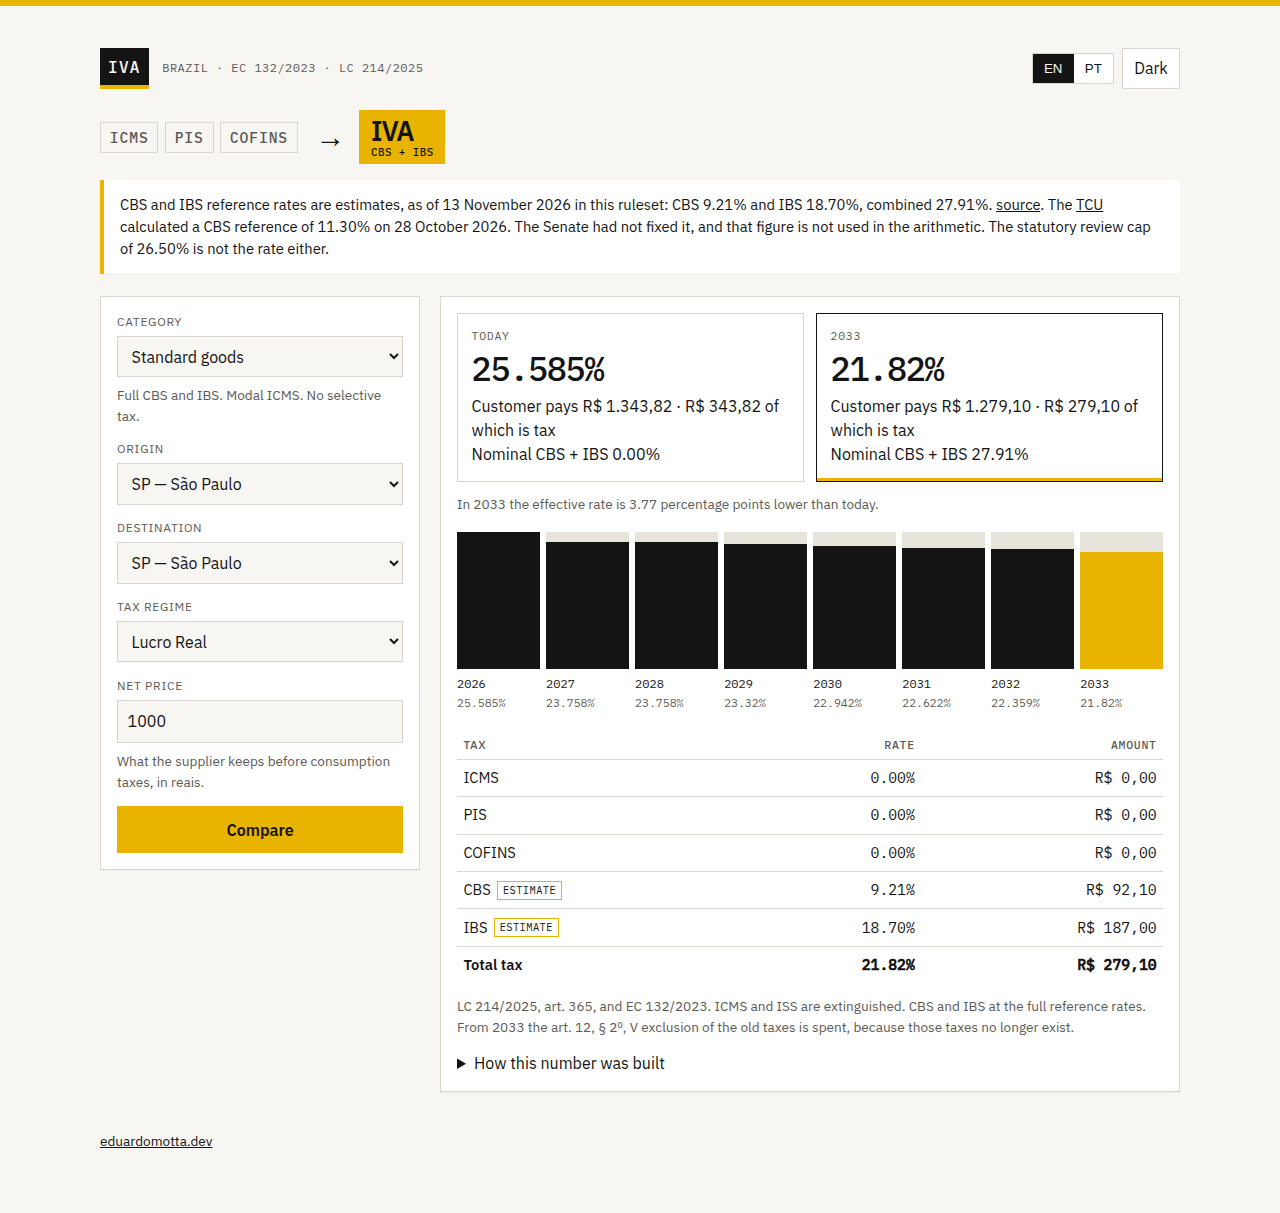
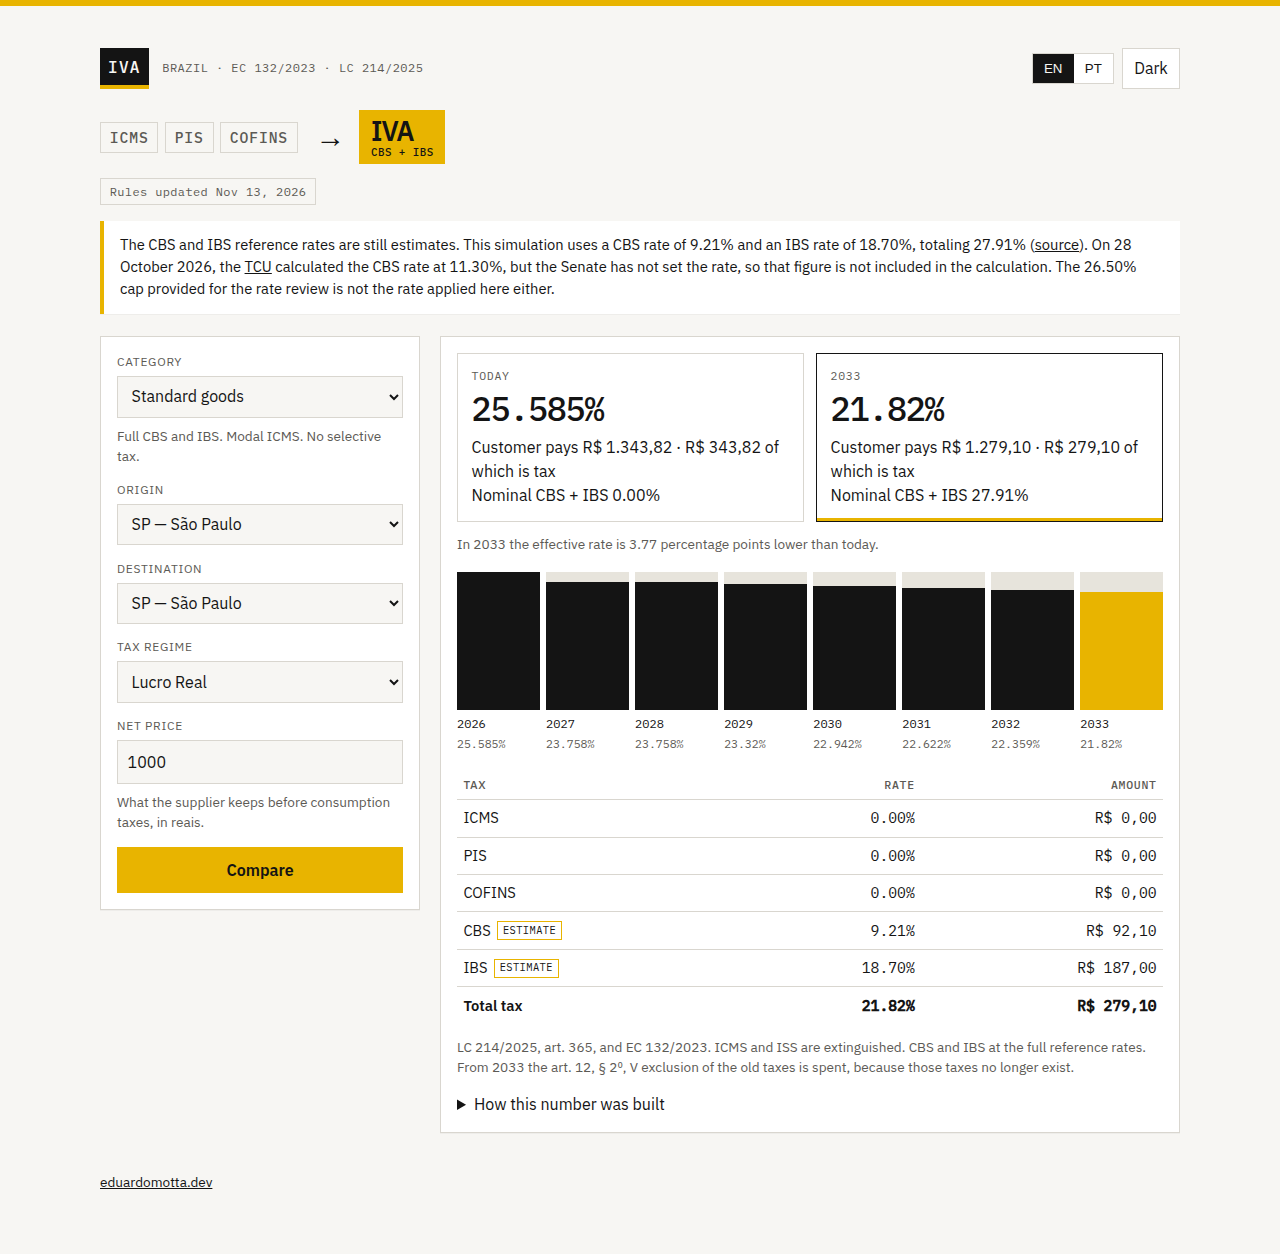
Show when the rules were updated and tighten the rates note.
The date comes from the active ruleset, the same value the health check reports, and the estimate note no longer repeats it.

diff --git a/frontend/app.js b/frontend/app.js
@@ -190,11 +190,18 @@ function points(delta) {
   }).format(Math.abs(delta) * 100);
 }
 
-function formatDate(iso) {
+function rulesAsOf(iso) {
   const [year, month, day] = iso.split("-").map(Number);
-  return new Intl.DateTimeFormat(locale(), { day: "numeric", month: "long", year: "numeric" }).format(
-    new Date(year, month - 1, day),
-  );
+  if (state.lang === "pt") {
+    const dd = String(day).padStart(2, "0");
+    const mm = String(month).padStart(2, "0");
+    return `${dd}/${mm}/${year}`;
+  }
+  return new Intl.DateTimeFormat("en-US", {
+    month: "short",
+    day: "numeric",
+    year: "numeric",
+  }).format(new Date(year, month - 1, day));
 }
 
 function applyChrome() {
@@ -231,8 +238,18 @@ function applyChrome() {
     }),
   );
   if (state.catalogue) fillSelects();
+  if (state.catalogue) renderUpdated();
   if (state.catalogue) renderNotice();
   if (state.result) renderResult();
+}
+
+function renderUpdated() {
+  const node = $("asof");
+  const iso = state.catalogue.as_of;
+  node.hidden = false;
+  node.textContent = state.lang === "pt"
+    ? `Regras atualizadas em ${rulesAsOf(iso)}`
+    : `Rules updated ${rulesAsOf(iso)}`;
 }
 
 function fillSelects() {
@@ -272,7 +289,6 @@ function keepSelect(select, options) {
 
 function renderNotice() {
   const estimates = state.catalogue.estimates;
-  const asOf = formatDate(estimates.as_of);
   const cbs = pct(estimates.cbs_reference);
   const ibs = pct(estimates.ibs_reference);
   const combined = pct(estimates.combined_reference);
@@ -288,22 +304,24 @@ function renderNotice() {
   notice.replaceChildren();
   if (state.lang === "pt") {
     notice.append(
-      `As alíquotas de referência da CBS e do IBS são estimativas. Nesta versão, de ${asOf}: CBS ${cbs} e IBS ${ibs}, somadas ${combined}. `,
+      `As alíquotas de referência da CBS e do IBS ainda são estimativas. Esta simulação usa CBS de ${cbs} e IBS de ${ibs}, totalizando ${combined} (`,
     );
     notice.append(link);
-    notice.append(". O ");
+    notice.append("). Em 28 de outubro de 2026, o ");
     notice.append(tcuLink);
     notice.append(
-      ` calculou ${tcu} de CBS em 28 de outubro de 2026. O Senado ainda não a havia fixado, e esse percentual não entra no cálculo. O teto de revisão de ${cap} também não é a alíquota adotada.`,
+      ` calculou a CBS em ${tcu}, mas, como o Senado ainda não fixou a alíquota, esse percentual não foi incorporado ao cálculo. O teto de ${cap} previsto para a revisão das alíquotas também não corresponde à alíquota aplicada.`,
     );
   } else {
     notice.append(
-      `CBS and IBS reference rates are estimates, as of ${asOf} in this ruleset: CBS ${cbs} and IBS ${ibs}, combined ${combined}. `,
+      `The CBS and IBS reference rates are still estimates. This simulation uses a CBS rate of ${cbs} and an IBS rate of ${ibs}, totaling ${combined} (`,
     );
     notice.append(link);
-    notice.append(". The ");
+    notice.append("). On 28 October 2026, the ");
     notice.append(tcuLink);
-    notice.append(` calculated a CBS reference of ${tcu} on 28 October 2026. The Senate had not fixed it, and that figure is not used in the arithmetic. The statutory review cap of ${cap} is not the rate either.`);
+    notice.append(
+      ` calculated the CBS rate at ${tcu}, but the Senate has not set the rate, so that figure is not included in the calculation. The ${cap} cap provided for the rate review is not the rate applied here either.`,
+    );
   }
 }
 
@@ -462,6 +480,7 @@ async function loadCatalogue() {
     $("regime").value = "lucro_real";
     $("category").value = "standard_goods";
   }
+  renderUpdated();
   renderNotice();
 }
 

diff --git a/frontend/styles.css b/frontend/styles.css
@@ -147,6 +147,23 @@ body {
   letter-spacing: 0.04em;
 }
 
+.asof-row {
+  max-width: 1080px;
+  margin: 0.85rem auto 0;
+}
+
+.asof {
+  display: inline-block;
+  margin: 0;
+  padding: 0.32rem 0.55rem 0.26rem;
+  border: 1px solid var(--line);
+  color: var(--muted);
+  font-family: "IBM Plex Mono", ui-monospace, monospace;
+  font-size: 0.75rem;
+  letter-spacing: 0.03em;
+  line-height: 1.3;
+}
+
 .tools { display: flex; gap: 0.5rem; align-items: center; }
 
 .segmented, .theme, select, input, .go {

diff --git a/frontend/index.html b/frontend/index.html
@@ -44,6 +44,9 @@
         </span>
       </span>
     </h1>
+    <div class="asof-row">
+      <p class="asof" id="asof" hidden></p>
+    </div>
     <aside class="notice" id="notice"></aside>
 
     <main>

diff --git a/README.md b/README.md
@@ -8,7 +8,7 @@ Eduardo de Moraes, a tax lawyer who now works as a senior backend engineer, keep
 
 ## The page
 
-English is the default. Portuguese is a toggle, and so is a dark theme. The heading is the comparison: ICMS, PIS and COFINS as muted chips, then IVA, which is CBS plus IBS. The yellow note is the estimate disclosure: the date, the pair of rates the arithmetic uses, and the TCU figure it does not use.
+English is the default. Portuguese is a toggle, and so is a dark theme. The heading is the comparison: ICMS, PIS and COFINS as muted chips, then IVA, which is CBS plus IBS. A quiet line under the heading shows when the rules were last updated, from the same date the API reports. The yellow note states that the CBS and IBS reference rates are estimates, names the pair the arithmetic uses, and says the TCU figure is not used.
 
 Standard goods, São Paulo to São Paulo, Lucro Real, R$ 1,000 net.
 
